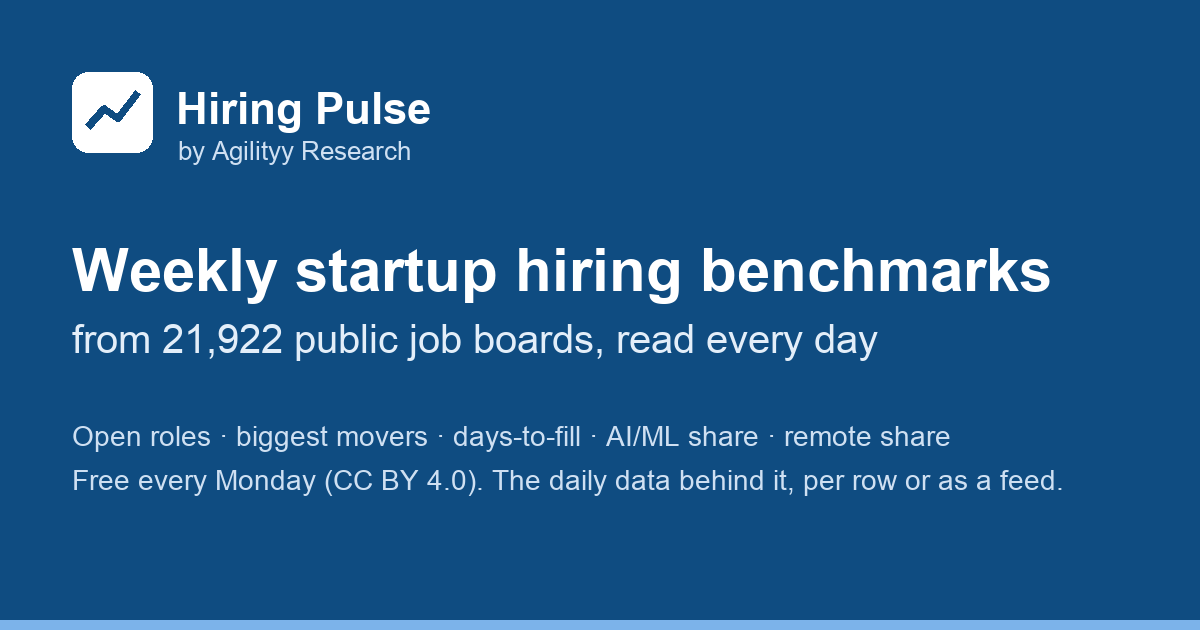
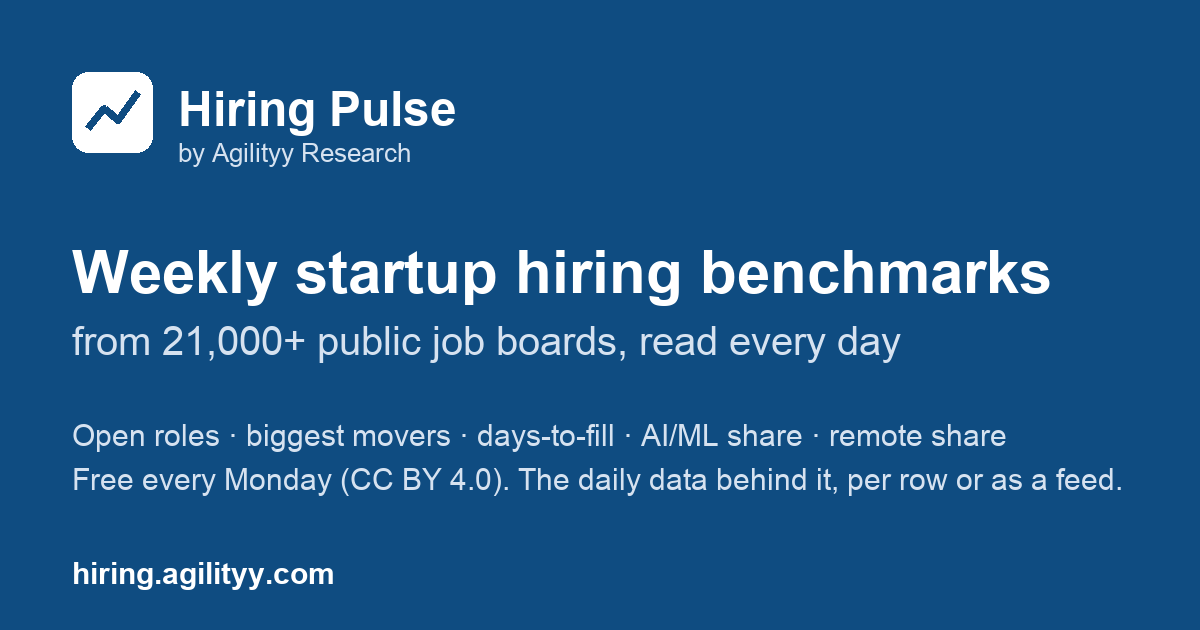
Findings first on the front page: hero sentence, stat strip, insight cards with who acts on them; counts rounded to 21,000+; site on hiring.agilityy.com; preview edition in the new report shape

diff --git a/_layouts/default.html b/_layouts/default.html
@@ -29,10 +29,10 @@
   {%- assign first_finding = "" -%}
   {%- if page.content contains 'id="key-findings"' -%}
     {%- assign lis = page.content | split: 'id="key-findings"' | last | split: "<li>" -%}
-    {%- if lis.size > 1 -%}{%- assign first_finding = lis[1] | split: "</li>" | first | strip_html | strip -%}{%- endif -%}
+    {%- if lis.size > 1 -%}{%- assign first_li = lis[1] | split: "</li>" | first -%}{%- if first_li contains "</strong>" -%}{%- assign first_finding = first_li | split: "</strong>" | first | strip_html | strip -%}{%- else -%}{%- assign first_finding = first_li | strip_html | strip -%}{%- endif -%}{%- endif -%}
   {%- elsif page.content contains "## Key findings" -%}
     {%- assign body = page.content | split: "## Key findings" | last | split: "## " | first | split: nl -%}
-    {%- for ln in body -%}{%- if first_finding == "" and ln contains "- " and ln.size > 20 -%}{%- assign first_finding = ln | remove_first: "- " | remove: "**" | strip -%}{%- endif -%}{%- endfor -%}
+    {%- for ln in body -%}{%- if first_finding == "" and ln contains "- **" -%}{%- assign first_finding = ln | remove_first: "- **" | split: "**" | first | strip -%}{%- elsif first_finding == "" and ln contains "- " and ln.size > 20 -%}{%- assign first_finding = ln | remove_first: "- " | remove: "**" | strip -%}{%- endif -%}{%- endfor -%}
   {%- endif -%}
   {%- if is_baseline -%}
     {%- assign page_title = "Baseline study " | append: report_date | append: ": 14 days of hiring at 639 YC companies" -%}
@@ -140,8 +140,23 @@ pre{background:var(--card);padding:.8rem 1rem;border-radius:8px;overflow-x:auto;
 pre code{background:none;padding:0}
 img,svg.hp{max-width:100%;height:auto}
 main.report img,main.latest img,svg.hp{display:block;width:100%;max-width:720px;margin:1rem 0 1.4rem}
-main.report #key-findings + ul,main.latest .findings ul{padding-left:1.2rem}
-main.report #key-findings + ul li,main.latest .findings li{font-size:1.06rem;margin:.55rem 0;line-height:1.5}
+main.report #key-findings + ul{padding-left:1.2rem}
+main.report #key-findings + ul > li{font-size:1.06rem;margin:.8rem 0;line-height:1.5}
+main.report #key-findings + ul > li > ul{padding-left:0;margin:.25rem 0 0}
+main.report #key-findings + ul > li > ul > li{list-style:none;font-size:.93rem;color:var(--muted);margin:0}
+main.report img + p > em:only-child,main.latest .charts p > em:only-child{display:block;font-style:normal;color:var(--muted);font-size:.95rem;margin:-.9rem 0 1.6rem}
+p.hero{font-size:1.5rem;line-height:1.3;font-weight:650;margin:.2rem 0 .8rem;max-width:52rem}
+.stats{display:grid;grid-template-columns:repeat(auto-fit,minmax(10.5rem,1fr));gap:.8rem;margin:1.2rem 0}
+.stat{background:var(--card);border:1px solid var(--line);border-radius:10px;padding:.8rem 1rem;display:flex;flex-direction:column;gap:.15rem}
+.stat b{font-size:1.75rem;line-height:1.1;font-weight:700;letter-spacing:-.01em}
+.stat span{color:var(--muted);font-size:.86rem;line-height:1.3}
+.stat .delta{color:var(--accent);font-weight:600}
+.insights{display:grid;grid-template-columns:repeat(auto-fit,minmax(19rem,1fr));gap:1rem;margin:1rem 0}
+.insights .card{margin:0;display:flex;flex-direction:column}
+.insights h3{font-size:1.12rem;line-height:1.35;margin:0 0 .45rem}
+.insights p{margin:.25rem 0;font-size:.97rem}
+.insights .who{margin-top:auto;padding-top:.6rem;border-top:1px solid var(--line);color:var(--muted);font-size:.9rem}
+.insights .who b{color:var(--fg);font-weight:600}
 .price{font-weight:600;white-space:nowrap}
 .report-nav{display:flex;flex-wrap:wrap;gap:.6rem 1.2rem;font-size:.93rem;margin:0 0 1rem;color:var(--muted)}
 ul.report-list{list-style:none;padding:0}

diff --git a/index.md b/index.md
@@ -1,11 +1,12 @@
 ---
-title: "Startup hiring benchmarks, every Monday, from 21,922 job boards"
+title: "Startup hiring benchmarks, every Monday, from 21,000+ job boards"
 description: >-
-  Where startup hiring accelerates and stalls this week: open roles, movers, days-to-fill, AI/ML and remote share across 21,922 job boards. Free every Monday.
+  Where startup hiring accelerates and stalls this week: open roles, movers, days-to-fill, AI/ML and remote share across 21,000+ job boards. Free every Monday.
 permalink: /
 ---
 {%- capture nl %}
 {% endcapture -%}
+{%- capture nl2 %}{{ nl }}{{ nl }}{% endcapture -%}
 {%- capture latest_raw %}{% include_relative reports/latest.md %}{% endcapture -%}
 {%- assign sections = latest_raw | split: "## " -%}
 {%- assign title_line = sections[0] | split: nl | first -%}
@@ -18,61 +19,81 @@ permalink: /
   {%- elsif s contains "Headline numbers" and headline == "" -%}{%- assign headline = s | remove_first: "Headline numbers" -%}
   {%- endif -%}
 {%- endfor -%}
+{%- comment -%} Findings come as "- **headline** detail" with an indented "  - *audience*" line; the last paragraph is a coverage note. {%- endcomment -%}
+{%- assign items = findings | split: "- **" -%}
+{%- assign findings_note = findings | strip | split: nl2 | last | strip -%}
+{%- if findings_note contains "- " or findings_note contains "**" -%}{%- assign findings_note = "" -%}{%- endif -%}
+{%- assign hero = "" -%}
+{%- comment -%} Stat strip from the headline table: value in column 2, change in column 4. {%- endcomment -%}
+{%- assign v_companies = "" -%}{%- assign v_open = "" -%}{%- assign d_open = "" -%}{%- assign v_fill = "" -%}{%- assign d_fill = "" -%}{%- assign v_ai = "" -%}{%- assign d_ai = "" -%}{%- assign v_remote = "" -%}{%- assign d_remote = "" -%}
+{%- assign hrows = headline | split: nl -%}
+{%- for r in hrows -%}
+  {%- assign cells = r | split: "|" -%}
+  {%- if r contains "| Companies tracked |" -%}{%- assign v_companies = cells[2] | strip -%}
+  {%- elsif r contains "| Open roles |" -%}{%- assign v_open = cells[2] | strip -%}{%- assign d_open = cells[4] | strip -%}
+  {%- elsif r contains "| Median days-to-fill |" -%}{%- assign v_fill = cells[2] | strip -%}{%- assign d_fill = cells[4] | strip -%}
+  {%- elsif r contains "| AI/ML share of open roles |" -%}{%- assign v_ai = cells[2] | strip -%}{%- assign d_ai = cells[4] | strip -%}
+  {%- elsif r contains "| Remote roles, share of open roles |" -%}{%- assign v_remote = cells[2] | strip -%}{%- assign d_remote = cells[4] | strip -%}
+  {%- endif -%}
+{%- endfor -%}
 
 # Where startup hiring is moving this week
 
-<p class="lead">{{ coverage_line | markdownify | remove: "<p>" | remove: "</p>" }} The weekly report is free to quote; the
-daily data behind it, every company, every role opened or closed, is <a href="{{ '/get-the-data/' | relative_url }}">yours per row, as a feed or through an AI assistant</a>.</p>
+{%- if items.size > 1 %}
+{%- assign first = items[1] | split: nl2 | first -%}
+{%- assign hero = first | split: "**" | first -%}
+<p class="hero">{{ hero }}</p>
+{%- endif %}
+<p class="muted small">Edition of {{ latest_date }}. {{ coverage_line | markdownify | strip_html | strip }} The weekly report is free to quote; the daily data behind it, every company and every role opened or closed, is <a href="{{ '/get-the-data/' | relative_url }}">yours per row, as a feed or through an AI assistant</a>.</p>
 
-<section class="card findings" aria-labelledby="this-week">
-<h2 id="this-week">Key findings, {{ latest_date }}</h2>
-{%- if findings != "" %}
-{{ findings | markdownify }}
+{%- if v_open != "" %}
+<div class="stats" aria-label="Headline numbers">
+<div class="stat"><b>{{ v_open }}</b><span>open roles</span>{% if d_open != "" and d_open != "—" %}<span class="delta">{{ d_open }} vs previous edition</span>{% endif %}</div>
+{%- if v_companies != "" %}<div class="stat"><b>{{ v_companies }}</b><span>companies, boards read daily</span></div>{% endif %}
+{%- if v_fill != "" and v_fill != "—" %}<div class="stat"><b>{{ v_fill }}</b><span>median days to fill a role</span>{% if d_fill != "" and d_fill != "—" %}<span class="delta">{{ d_fill }}</span>{% endif %}</div>{% endif %}
+{%- if v_ai != "" %}<div class="stat"><b>{{ v_ai }}</b><span>of open roles are AI/ML</span>{% if d_ai != "" and d_ai != "—" %}<span class="delta">{{ d_ai }}</span>{% endif %}</div>{% endif %}
+{%- if v_remote != "" and v_remote != "—" %}<div class="stat"><b>{{ v_remote }}</b><span>of open roles are remote</span>{% if d_remote != "" and d_remote != "—" %}<span class="delta">{{ d_remote }}</span>{% endif %}</div>{% endif %}
+</div>
+{%- endif %}
+
+## What the data says this week
+
+{%- if items.size > 1 %}
+<div class="insights">
+{%- for item in items offset: 1 %}
+{%- assign body = item | split: nl2 | first -%}
+{%- assign head = body | split: "**" | first -%}
+{%- assign rest = body | remove_first: head | remove_first: "**" -%}
+{%- assign who = "" -%}{%- assign detail = rest | strip -%}
+{%- if rest contains "- *" -%}{%- assign rp = rest | split: "- *" -%}{%- assign detail = rp[0] | strip -%}{%- assign who = rp[1] | split: "*" | first -%}{%- endif -%}
+{%- assign wp = who | split: ": " -%}
+<div class="card">
+<h3>{{ head | strip }}</h3>
+{%- if detail != "" %}<p>{{ detail | markdownify | strip_html }}</p>{% endif %}
+{%- if who != "" %}<p class="who">{% if wp.size > 1 %}<b>{{ wp[0] }}:</b> {{ who | remove_first: wp[0] | remove_first: ": " }}{% else %}{{ who }}{% endif %}</p>{% endif %}
+</div>
+{%- endfor %}
+</div>
+{%- if findings_note != "" %}<p class="muted small">{{ findings_note | markdownify | strip_html }}</p>{% endif %}
 {%- else %}
 {{ sections[0] | remove_first: title_line | markdownify }}
 {%- endif %}
+
 {%- if charts != "" %}
+<div class="charts">
 {{ charts | markdownify }}
+</div>
 {%- endif %}
 {%- if headline != "" %}
-<details><summary>Headline numbers and the change since the previous edition</summary>
+<details><summary>All headline numbers and the change since the previous edition</summary>
 {{ headline | markdownify }}
 </details>
 {%- endif %}
 <p><a class="btn" href="{{ '/reports/latest/' | relative_url }}">Read the full report</a>
 <a class="btn alt" href="{{ '/get-the-data/' | relative_url }}">How you get the data</a>
 <a class="btn alt" href="{{ '/reports/' | relative_url }}">Every edition</a></p>
-</section>
 
-## What the data tells you
-
-<div class="grid">
-<div class="card"><h3>Talent and recruiting teams</h3>
-<p>Which functions are hard to fill and how long roles stay open, by industry and company size. Benchmark your
-days-to-fill against companies like yours, and see which competitors are opening or closing teams.</p></div>
-<div class="card"><h3>Sales and revenue operations</h3>
-<p>A company that just doubled its open roles is buying tools, office space, payroll and insurance. Hiring momentum
-per company, refreshed daily, is the earliest public signal of a budget.</p></div>
-<div class="card"><h3>Investors and analysts</h3>
-<p>Portfolio and sector hiring trends from first-party job-board reads, not aggregator counts: roles opened and
-closed, net growth, AI/ML share, remote share, comparable week after week.</p></div>
-<div class="card"><h3>Journalists and researchers</h3>
-<p>Citable numbers every Monday under CC BY 4.0, with the method published. A custom cut of the history for a story
-or a paper is usually free with attribution.</p></div>
-</div>
-
-## Why these numbers hold up
-
-- **First-party.** Every company's own job board ({{ site.coverage.vendors }}) is read once a day. A role is counted
-  once, from the source, and a closure is observed the day the posting disappears, not inferred from an aggregator.
-- **Broad.** {{ site.coverage.companies }} companies since {{ site.coverage.companies_since }}, {{ site.coverage.companies_before }} before that; mostly venture-backed
-  technology companies, {{ site.coverage.with_industry }} of them with industry and team size for the segment tables.
-- **Comparable.** Functions, seniority and the AI/ML flag come from one fixed title taxonomy, so this week's figures
-  compare with last week's and with yours.
-- **Checked daily.** Fetch rate, day-over-day stability, a careers-page re-count and a re-fetch of closed roles are
-  measured every day with alert thresholds. The [methodology]({{ '/methodology/' | relative_url }}) lists them.
-
-## Get the data
+## Get the data behind it
 
 <div class="grid">
 <div class="card"><h3>Hiring Signals Feed</h3>
@@ -90,6 +111,35 @@ a free sample and the schema to load today.</p>
 </div>
 
 <p><a class="btn" href="{{ '/get-the-data/' | relative_url }}">All six ways to get the data</a></p>
+
+## Why these numbers hold up
+
+- **First-party.** Every company's own job board ({{ site.coverage.vendors }}) is read once a day. A role is counted
+  once, from the source, and a closure is observed the day the posting disappears, not inferred from an aggregator.
+- **Broad.** {{ site.coverage.companies }} companies since {{ site.coverage.companies_since }}, {{ site.coverage.companies_before }} before that; mostly venture-backed
+  technology companies, {{ site.coverage.with_industry }} of them with industry and team size for the segment tables. The exact
+  count of the day is in every report.
+- **Comparable.** Functions, seniority and the AI/ML flag come from one fixed title taxonomy, so this week's figures
+  compare with last week's and with yours.
+- **Checked daily.** Fetch rate, day-over-day stability, a careers-page re-count and a re-fetch of closed roles are
+  measured every day with alert thresholds. The [methodology]({{ '/methodology/' | relative_url }}) lists them.
+
+## Who uses it
+
+<div class="grid">
+<div class="card"><h3>Talent and recruiting teams</h3>
+<p>Which functions are hard to fill and how long roles stay open, by industry and company size. Benchmark your
+days-to-fill against companies like yours, and see which competitors are opening or closing teams.</p></div>
+<div class="card"><h3>Sales and revenue operations</h3>
+<p>A company that just doubled its open roles is buying tools, office space, payroll and insurance. Hiring momentum
+per company, refreshed daily, is the earliest public signal of a budget.</p></div>
+<div class="card"><h3>Investors and analysts</h3>
+<p>Portfolio and sector hiring trends from first-party job-board reads, not aggregator counts: roles opened and
+closed, net growth, AI/ML share, remote share, comparable week after week.</p></div>
+<div class="card"><h3>Journalists and researchers</h3>
+<p>Citable numbers every Monday under CC BY 4.0, with the method published. A custom cut of the history for a story
+or a paper is usually free with attribution.</p></div>
+</div>
 
 <p class="small muted">Reports are released under CC BY 4.0. Cite as "Agilityy Research, Hiring Pulse, {{ latest_date }}"
 with a link to this site. New edition every Monday 07:00 UTC; subscribe to the <a href="{{ '/feed.xml' | relative_url }}">Atom feed</a>.

diff --git a/reports/latest.md b/reports/latest.md
@@ -4,21 +4,30 @@ Startup hiring this week, measured from the public job boards (Greenhouse, Smart
 
 ## Key findings
 
-- **696,445 roles are open** across the job boards of 21,882 companies. Engineering accounts for 19.1% of them, Operations for 11.8%.
-- Among the 648 companies with 30 days of history, open roles are +0.8% against a month ago (1,879 opened, 1,792 closed); 7.3% of these companies are accelerating and 13.1% contracting. Largest additions: Aleph Lab (+43 roles), Fivetran (+37 roles); largest cuts: Inversion Space (−34), Clara (−17). By industry, Education is growing fastest (+19.5%) and Healthcare slowest (−2.3%).
-- Roles stay posted a median of **64.2 days** before they close; Clinical fills fastest (35 days), Product slowest (85).
-- **20,797 AI/ML roles** make up 3.0% of all openings. Heaviest AI/ML hirers among boards with 10+ roles: 10x Team (94.0% of its openings), Reonic (93.3% of its openings).
-- **14.2% of open roles are remote**; 535 of the 8,419 companies with 10 or more openings are fully remote, and the median company lists 0.0% of its roles as remote.
+- **696,445 roles are open across the job boards of 21,882 companies.** Engineering is the largest function with 132,934 openings (19.1%), then Operations (11.8%) and Sales (10.4%).
+  - *For analysts: the size of startup hiring demand by function, re-measured from 21,882 first-party boards every day.*
+- **More companies are cutting than growing: 13.1% of those with a month of history are contracting, 7.3% accelerating.** Across the 648 companies with 30 days of history, open roles are +0.8% against a month ago (1,879 opened, 1,792 closed). By industry, Education is growing fastest (+19.5%) and Healthcare slowest (−2.3%).
+  - *For sales teams: the accelerating companies are opening budgets now; the daily feed names them, with the roles they added.*
+- **Aleph Lab added 43 open roles in 30 days, more than any other company; Inversion Space cut the most (−34).** Also expanding: Fivetran (+37, 196 open), Legora (+26, 342 open); also cutting: Clara (−17, 138 open), Deepgram (−17, 52 open).
+  - *For revenue teams: a company that grows its open roles by a third is about to buy tools, payroll and office space. The earliest public budget signal.*
+- **A startup role stays open a median of 64.2 days before it is filled or withdrawn; Product roles take 85 days, Clinical 35.** Measured on 1,739 postings that closed in the last 30 days at 336 companies.
+  - *For talent teams: a time-to-fill benchmark by function, industry and company size, against companies like yours.*
+- **AI/ML roles are 3.0% of all openings (20,797 roles), but at 10x Team and Reonic they are over 90% of the board.** Heaviest AI/ML hirers among boards with 10+ roles: 10x Team (94.0% of its openings), Reonic (93.3% of its openings).
+  - *For investors: the AI share of each company's board, day by day, separates AI-native teams from AI-washed decks.*
+- **14.2% of open roles are remote, and the typical company offers none.** 535 of the 8,419 companies with 10 or more openings are fully remote.
+  - *For employer-brand and compensation teams: remote is the exception, which makes it a differentiator in the posting.*
 
 The growth, days-to-fill and movers figures cover the 648 companies with 14+ days of daily history; the other 21,234 tracked companies join them as their history accumulates, most from 2026-12-06.
 
 ## This week in charts
 
-![Open roles by function. Engineering 133k (19.1%); Operations 82k (11.8%); Sales 72.1k (10.4%); Customer 39.2k (5.6%); Clinical 33.7k (4.8%); Marketing 25.9k (3.7%); Data & AI 25.4k (3.6%); Finance 17.6k (2.5%); People 13.2k (1.9%); Product 11.7k (1.7%); Design 10.6k (1.5%); Legal 6.9k (1.0%).](https://agilityy-research.github.io/hiring-pulse/reports/charts/2026-11-22-functions.svg)
+![Open roles by function. Engineering 133k (19.1%); Operations 82k (11.8%); Sales 72.1k (10.4%); Customer 39.2k (5.6%); Clinical 33.7k (4.8%); Marketing 25.9k (3.7%); Data & AI 25.4k (3.6%); Finance 17.6k (2.5%); People 13.2k (1.9%); Product 11.7k (1.7%); Design 10.6k (1.5%); Legal 6.9k (1.0%).](https://hiring.agilityy.com/reports/charts/2026-11-22-functions.svg)
 
-![Largest movers: net change in open roles over 30 days. Aleph Lab +43 (171 open); Fivetran +37 (196 open); Legora +26 (342 open); Flexport +20 (212 open); Orchestra +14 (55 open); Flex +13 (37 open); Inversion Space −34 (55 open); Clara −17 (138 open); Deepgram −17 (52 open); Astranis −15 (170 open); Vanta −15 (69 open); Firecrawl −14 (14 open).](https://agilityy-research.github.io/hiring-pulse/reports/charts/2026-11-22-movers.svg)
+*Engineering alone is 133k of the 696k open roles.*
 
-![Open roles, edition by edition. 22 Nov 696k.](https://agilityy-research.github.io/hiring-pulse/reports/charts/2026-11-22-trend.svg)
+![Largest movers: net change in open roles over 30 days. Aleph Lab +43 (171 open); Fivetran +37 (196 open); Legora +26 (342 open); Flexport +20 (212 open); Orchestra +14 (55 open); Flex +13 (37 open); Inversion Space −34 (55 open); Clara −17 (138 open); Deepgram −17 (52 open); Astranis −15 (170 open); Vanta −15 (69 open); Firecrawl −14 (14 open).](https://hiring.agilityy.com/reports/charts/2026-11-22-movers.svg)
+
+*Aleph Lab added the most roles in 30 days; Inversion Space cut the most.*
 
 ## Headline numbers
 
@@ -239,6 +248,6 @@ Companies with 14+ days of history and a known industry; a segment needs 5 compa
 
 ## About the numbers
 
-Source: daily reads of the public job boards (Greenhouse, SmartRecruiters, Personio, Ashby, Recruitee and Lever) of 21,882 companies. Every figure is first-party: a role is counted once, from the company's own board, and a closure is observed the day the posting disappears, not inferred. Job titles are mapped to functions, seniority and the AI/ML flag with one fixed taxonomy, so editions are comparable week to week. Method, definitions and the daily accuracy checks: [agilityy-research.github.io/hiring-pulse/methodology](https://agilityy-research.github.io/hiring-pulse/methodology/). Every edition: [agilityy-research.github.io/hiring-pulse](https://agilityy-research.github.io/hiring-pulse). Free to quote under [CC BY 4.0](https://creativecommons.org/licenses/by/4.0/) with a link.
+Source: daily reads of the public job boards (Greenhouse, SmartRecruiters, Personio, Ashby, Recruitee and Lever) of 21,882 companies. Every figure is first-party: a role is counted once, from the company's own board, and a closure is observed the day the posting disappears, not inferred. Job titles are mapped to functions, seniority and the AI/ML flag with one fixed taxonomy, so editions are comparable week to week. Method, definitions and the daily accuracy checks: [hiring.agilityy.com/methodology](https://hiring.agilityy.com/methodology/). Every edition: [hiring.agilityy.com](https://hiring.agilityy.com). Free to quote under [CC BY 4.0](https://creativecommons.org/licenses/by/4.0/) with a link.
 
-**Get the data.** Yesterday's signals for every tracked company, one row each, pay per row from $0.01 per company-day: [Hiring Signals Feed](https://apify.com/agilityy/hiring-signals-feed). Track your own list of companies daily: [Hiring Velocity Signals](https://apify.com/agilityy/hiring-velocity-signals). Check one company now: [Company Hiring Lookup](https://apify.com/agilityy/company-hiring-lookup). Companies that just raised money: [Funded & Hiring Leads](https://apify.com/agilityy/funded-and-hiring-leads). The whole history as monthly files or a Snowflake share: [agilityy-research.github.io/hiring-pulse/for-data-teams/](https://agilityy-research.github.io/hiring-pulse/for-data-teams/). Every way to get it, from a download to an AI assistant: [agilityy-research.github.io/hiring-pulse/get-the-data/](https://agilityy-research.github.io/hiring-pulse/get-the-data/).
+**Get the data.** Yesterday's signals for every tracked company, one row each, pay per row from $0.01 per company-day: [Hiring Signals Feed](https://apify.com/agilityy/hiring-signals-feed). Track your own list of companies daily: [Hiring Velocity Signals](https://apify.com/agilityy/hiring-velocity-signals). Check one company now: [Company Hiring Lookup](https://apify.com/agilityy/company-hiring-lookup). Companies that just raised money: [Funded & Hiring Leads](https://apify.com/agilityy/funded-and-hiring-leads). The whole history as monthly files or a Snowflake share: [hiring.agilityy.com/for-data-teams/](https://hiring.agilityy.com/for-data-teams/). Every way to get it, from a download to an AI assistant: [hiring.agilityy.com/get-the-data/](https://hiring.agilityy.com/get-the-data/).

diff --git a/for-data-teams.md b/for-data-teams.md
@@ -1,7 +1,7 @@
 ---
 title: "Job board data for data teams: the full history as files or a Snowflake share"
 description: >-
-  The full Hiring Pulse history for data teams: daily signals and job events for 21,922 companies, as monthly CSV or a Snowflake share. Schema, sample, prices.
+  The full Hiring Pulse history for data teams: daily signals and job events for 21,000+ companies, as monthly CSV or a Snowflake share. Schema, sample, prices.
 permalink: /for-data-teams/
 jsonld: dataset
 dataset_name: "Hiring Pulse full history: daily_signals, job_events, companies"
@@ -23,7 +23,7 @@ Three tables, appended daily, with the history from the first day of collection.
 | Table | One row per | Rows per day (Nov 2026) | Columns |
 |---|---|---|---|
 | `companies` | company | monthly refresh, {{ site.coverage.companies }} rows | key, name, job-board vendor and slug, careers URL, website; for the {{ site.coverage.with_industry }} YC-backed companies also industry, sub-industry, team size, batch |
-| `daily_signals` | company × day | ≈ {{ site.coverage.companies }} | snapshot time, open roles, previous open roles, new and closed roles, net change, growth %, 30-day trend, roles opened and closed in 30 days, median days-to-fill, remote share, AI/ML roles and share, functions, seniority mix, top departments, top locations, snapshots recorded, one-word signal |
+| `daily_signals` | company × day | one per tracked company, {{ site.coverage.companies }} a day | snapshot time, open roles, previous open roles, new and closed roles, net change, growth %, 30-day trend, roles opened and closed in 30 days, median days-to-fill, remote share, AI/ML roles and share, functions, seniority mix, top departments, top locations, snapshots recorded, one-word signal |
 | `job_events` | role opened or closed | thousands | event type, company, vendor, slug, job id, title, department, location, remote flag, URL, first seen, closed at, days open; plus one baseline row per role that was already open when a board entered the archive |
 
 Coverage: {{ site.coverage.companies }} companies with a public {{ site.coverage.vendors }} board, daily since

diff --git a/reports/2026-11-20.md b/reports/2026-11-20.md
@@ -183,6 +183,6 @@ Baseline study: a one-off 14-day readout on 639 Y Combinator companies whose pub
 
 ## About the numbers
 
-Source: daily reads of the public job boards (Greenhouse, Lever and Ashby) of 639 Y Combinator companies, 2026-11-06 to 2026-11-20. Every figure is first-party: a role is counted once, from the company's own board, and a closure is observed the day the posting disappears, not inferred. Method, definitions and the daily accuracy checks: [agilityy-research.github.io/hiring-pulse/methodology](https://agilityy-research.github.io/hiring-pulse/methodology/). Every edition: [agilityy-research.github.io/hiring-pulse](https://agilityy-research.github.io/hiring-pulse). Free to quote under [CC BY 4.0](https://creativecommons.org/licenses/by/4.0/) with a link.
+Source: daily reads of the public job boards (Greenhouse, Lever and Ashby) of 639 Y Combinator companies, 2026-11-06 to 2026-11-20. Every figure is first-party: a role is counted once, from the company's own board, and a closure is observed the day the posting disappears, not inferred. Method, definitions and the daily accuracy checks: [agilityy-research.github.io/hiring-pulse/methodology](https://hiring.agilityy.com/methodology/). Every edition: [agilityy-research.github.io/hiring-pulse](https://hiring.agilityy.com). Free to quote under [CC BY 4.0](https://creativecommons.org/licenses/by/4.0/) with a link.
 
-**Get the data.** Yesterday's signals for every tracked company, one row each, pay per row from $0.01 per company-day: [Hiring Signals Feed](https://apify.com/agilityy/hiring-signals-feed). Every way to get it, from a download to an AI assistant: [agilityy-research.github.io/hiring-pulse/get-the-data/](https://agilityy-research.github.io/hiring-pulse/get-the-data/).
+**Get the data.** Yesterday's signals for every tracked company, one row each, pay per row from $0.01 per company-day: [Hiring Signals Feed](https://apify.com/agilityy/hiring-signals-feed). Every way to get it, from a download to an AI assistant: [agilityy-research.github.io/hiring-pulse/get-the-data/](https://hiring.agilityy.com/get-the-data/).

diff --git a/README.md b/README.md
@@ -1,12 +1,12 @@
-# Hiring Pulse — weekly startup hiring benchmarks from 21,922 public job boards
+# Hiring Pulse — weekly startup hiring benchmarks from 21,000+ public job boards
 
-**Site: https://agilityy-research.github.io/hiring-pulse/** (becomes **https://hiring.agilityy.com** once the DNS
-record below exists). **Agilityy Research** reads the public job boards of 21,922 companies every day (Greenhouse,
-Lever, Ashby, SmartRecruiters, Recruitee and Personio boards; 10,933 companies before 2026-11-22) and publishes a
+**Site: https://hiring.agilityy.com/** (becomes **https://hiring.agilityy.com** once the DNS
+record below exists). **Agilityy Research** reads the public job boards of 21,000+ companies every day (Greenhouse,
+Lever, Ashby, SmartRecruiters, Recruitee and Personio boards; 10,000+ companies before 2026-11-22) and publishes a
 benchmark report here every Monday at 07:00 UTC.
 
 **This week → [reports/latest.md](reports/latest.md)** · archive in [`reports/`](reports/) (one file per week,
-charts in [`reports/charts/`](reports/charts/)) · [Atom feed](https://agilityy-research.github.io/hiring-pulse/feed.xml)
+charts in [`reports/charts/`](reports/charts/)) · [Atom feed](https://hiring.agilityy.com/feed.xml)
 
 ## What is in each edition
 
@@ -85,7 +85,7 @@ GitHub Pages.
 
 - **Universe.** Companies with a public job board on Greenhouse, Lever, Ashby, SmartRecruiters, Recruitee or
   Personio, drawn from accelerator lists and public web indexes, verified against the company name; industry and size
-  metadata for the 683 YC-backed companies.
+  metadata for around 700 YC-backed companies.
 - **Snapshots.** Every board is read once a day. A role is *opened* when it first appears and *closed* when it
   disappears; days-to-fill is the age of a role at closure. Postings older than a year at closure are excluded
   from days-to-fill as evergreen.

diff --git a/data.md b/data.md
@@ -1,7 +1,7 @@
 ---
 title: "Hiring data products and prices: feed, trackers, lookup, funded leads, scrapers"
 description: >-
-  Hiring data per row: a daily signals feed for 21,922 companies, tracking of your own list, a one-company lookup, SEC Form D funded leads, job board scrapers.
+  Hiring data per row: a daily signals feed for 21,000+ companies, tracking of your own list, a one-company lookup, SEC Form D funded leads, job board scrapers.
 permalink: /data/
 jsonld: dataset
 dataset_name: "Hiring Pulse data products"

diff --git a/methodology.md b/methodology.md
@@ -1,7 +1,7 @@
 ---
 title: "Methodology: how the startup hiring benchmarks are measured and checked"
 description: >-
-  How Hiring Pulse measures startup hiring: daily reads of 21,922 public job boards, how opened and closed roles and days-to-fill are defined, daily checks.
+  How Hiring Pulse measures startup hiring: daily reads of 21,000+ public job boards, how opened and closed roles and days-to-fill are defined, daily checks.
 permalink: /methodology/
 ---
 # Methodology

diff --git a/reports/index.md b/reports/index.md
@@ -1,7 +1,7 @@
 ---
 title: "All weekly Hiring Pulse reports: the startup hiring archive"
 description: >-
-  Every weekly Hiring Pulse edition, one per Monday: startup hiring benchmarks from 21,922 job boards with key findings, charts, movers, days-to-fill, AI share.
+  Every weekly Hiring Pulse edition, one per Monday: startup hiring benchmarks from 21,000+ job boards with key findings, charts, movers, days-to-fill, AI share.
 permalink: /reports/
 ---
 # All weekly reports
